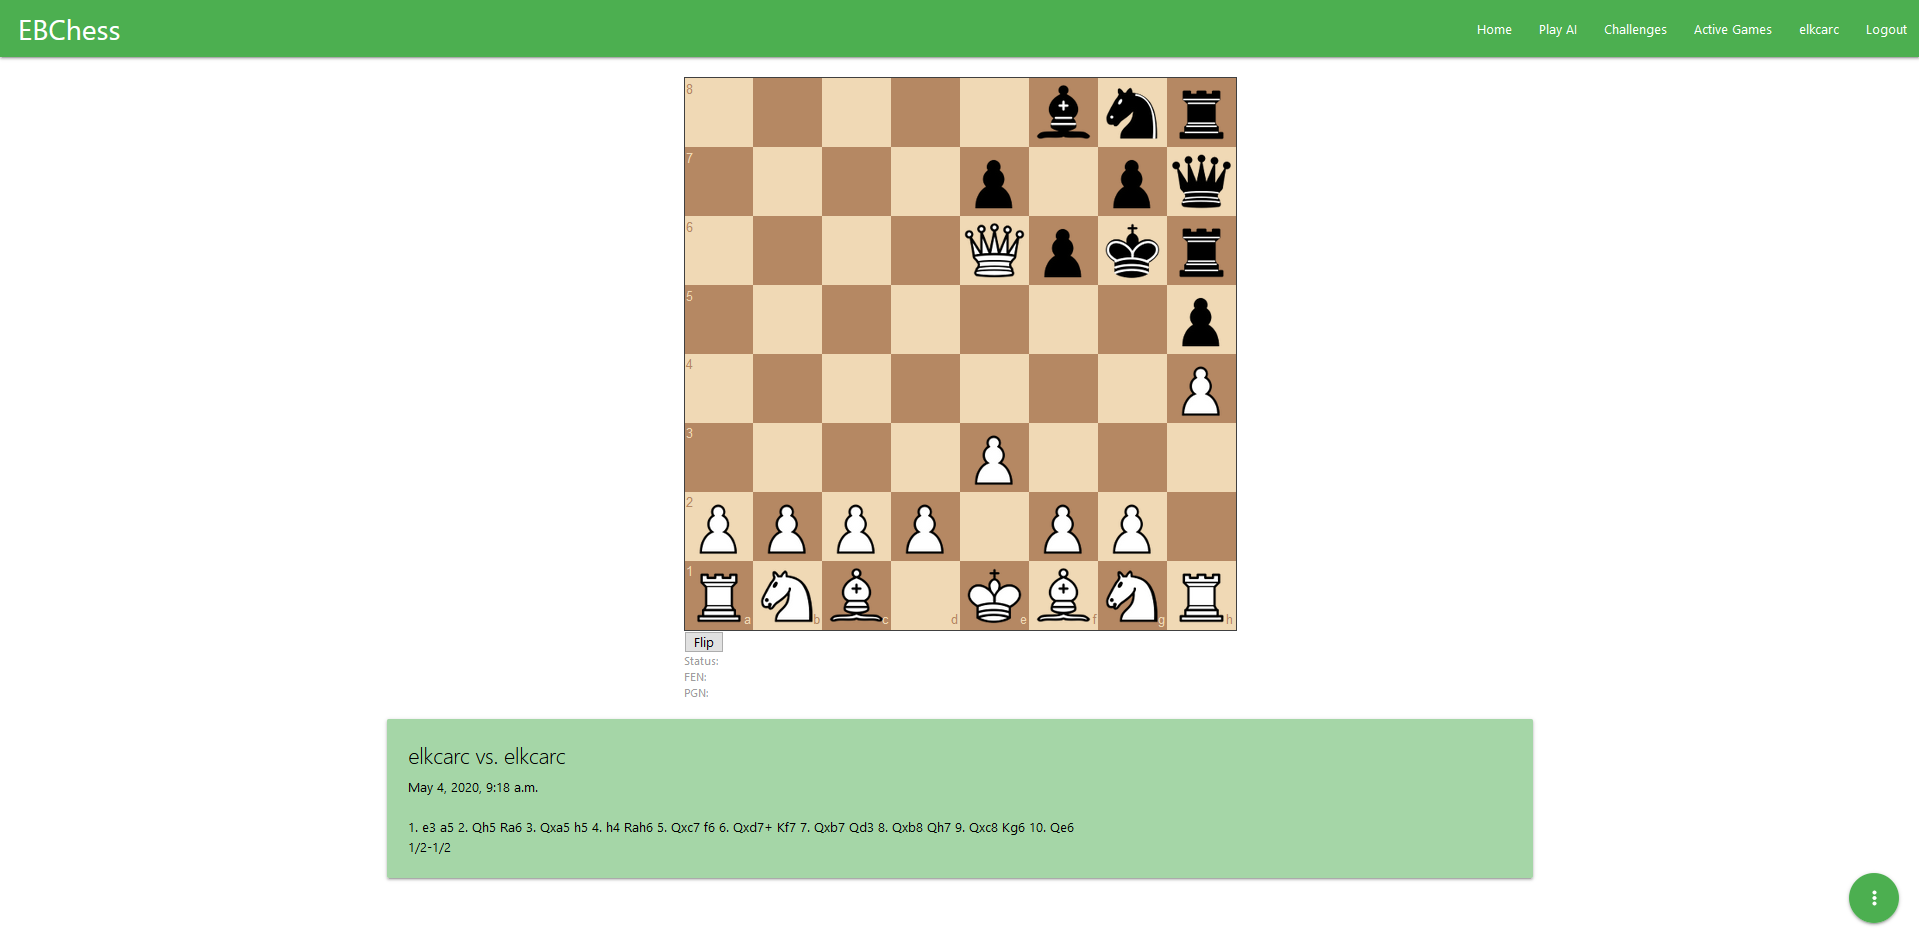
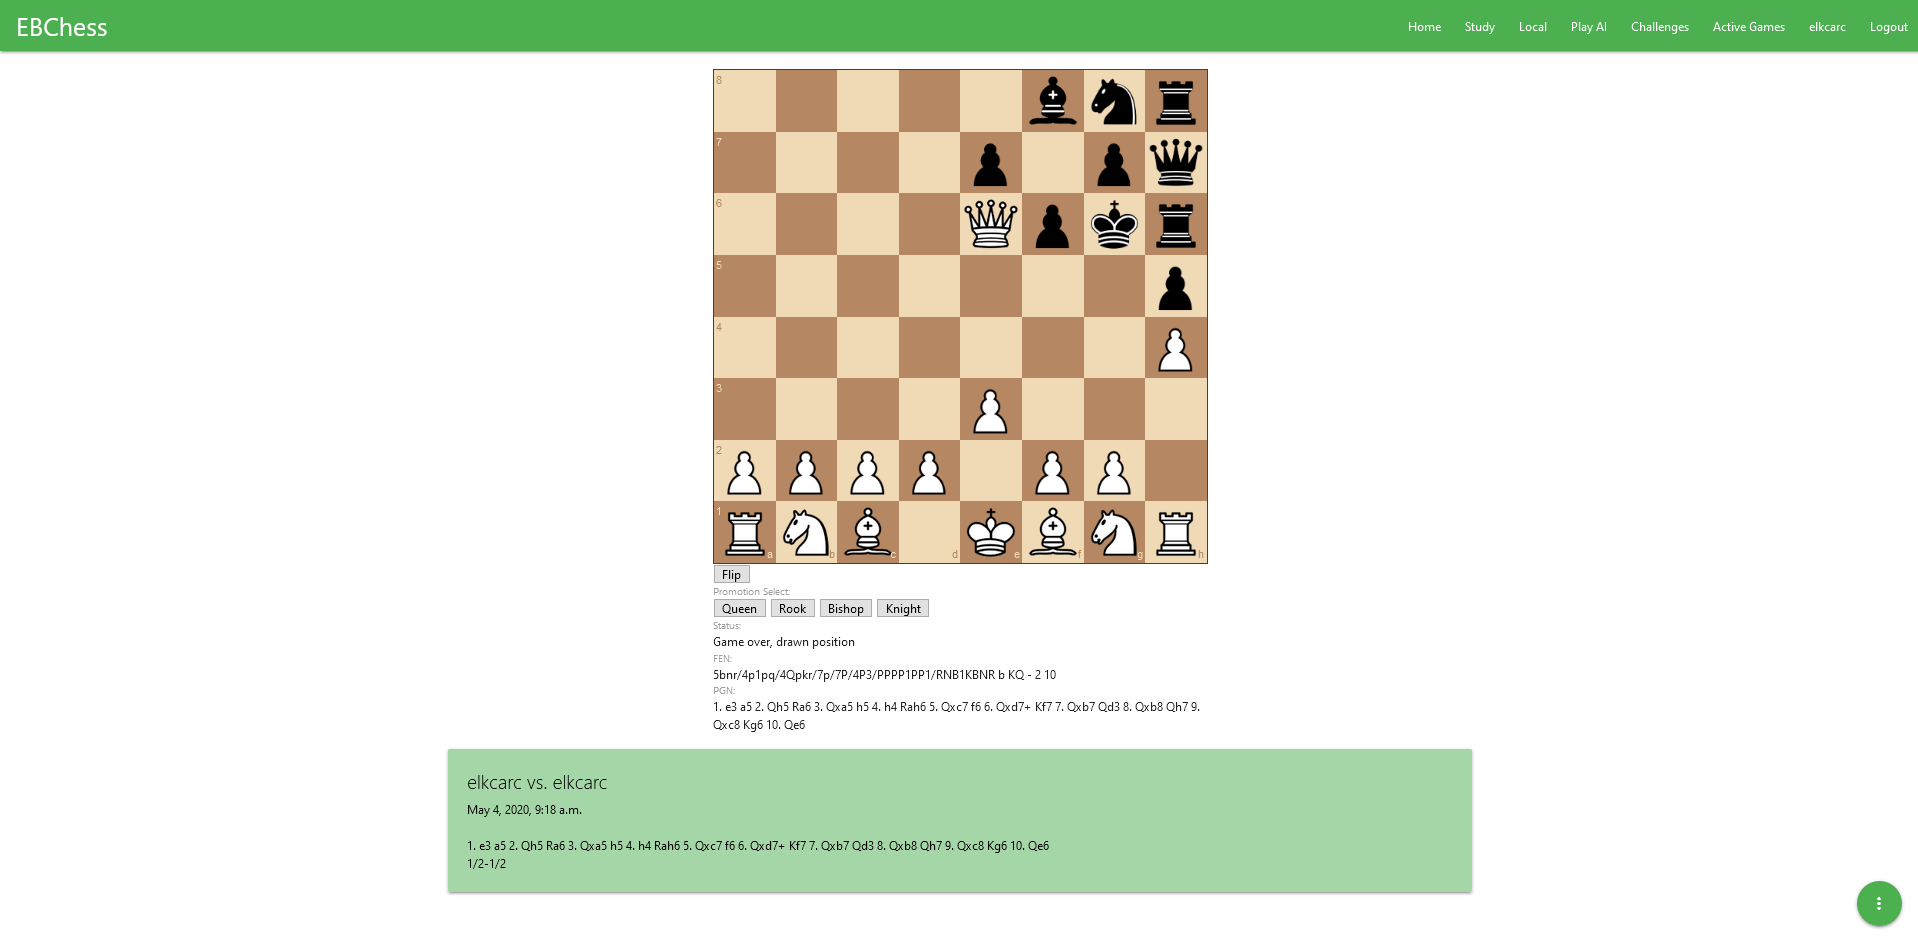
updated sample image

Changed region(s): [[0.0, 0.0, 1.0, 0.9533], [0.9536, 0.9226, 1.0, 0.9841]]

diff --git a/main/templates/main/includes/EBChessboard.html b/main/templates/main/includes/EBChessboard.html
@@ -39,6 +39,9 @@
         {
             board.position(checkinit.fen)
             game.load_pgn(checkinit.pgn)
+            $fen.html(checkinit.fen)
+            $pgn.html(checkinit.pgn)
+            updateStatus()
             return
         }
 
